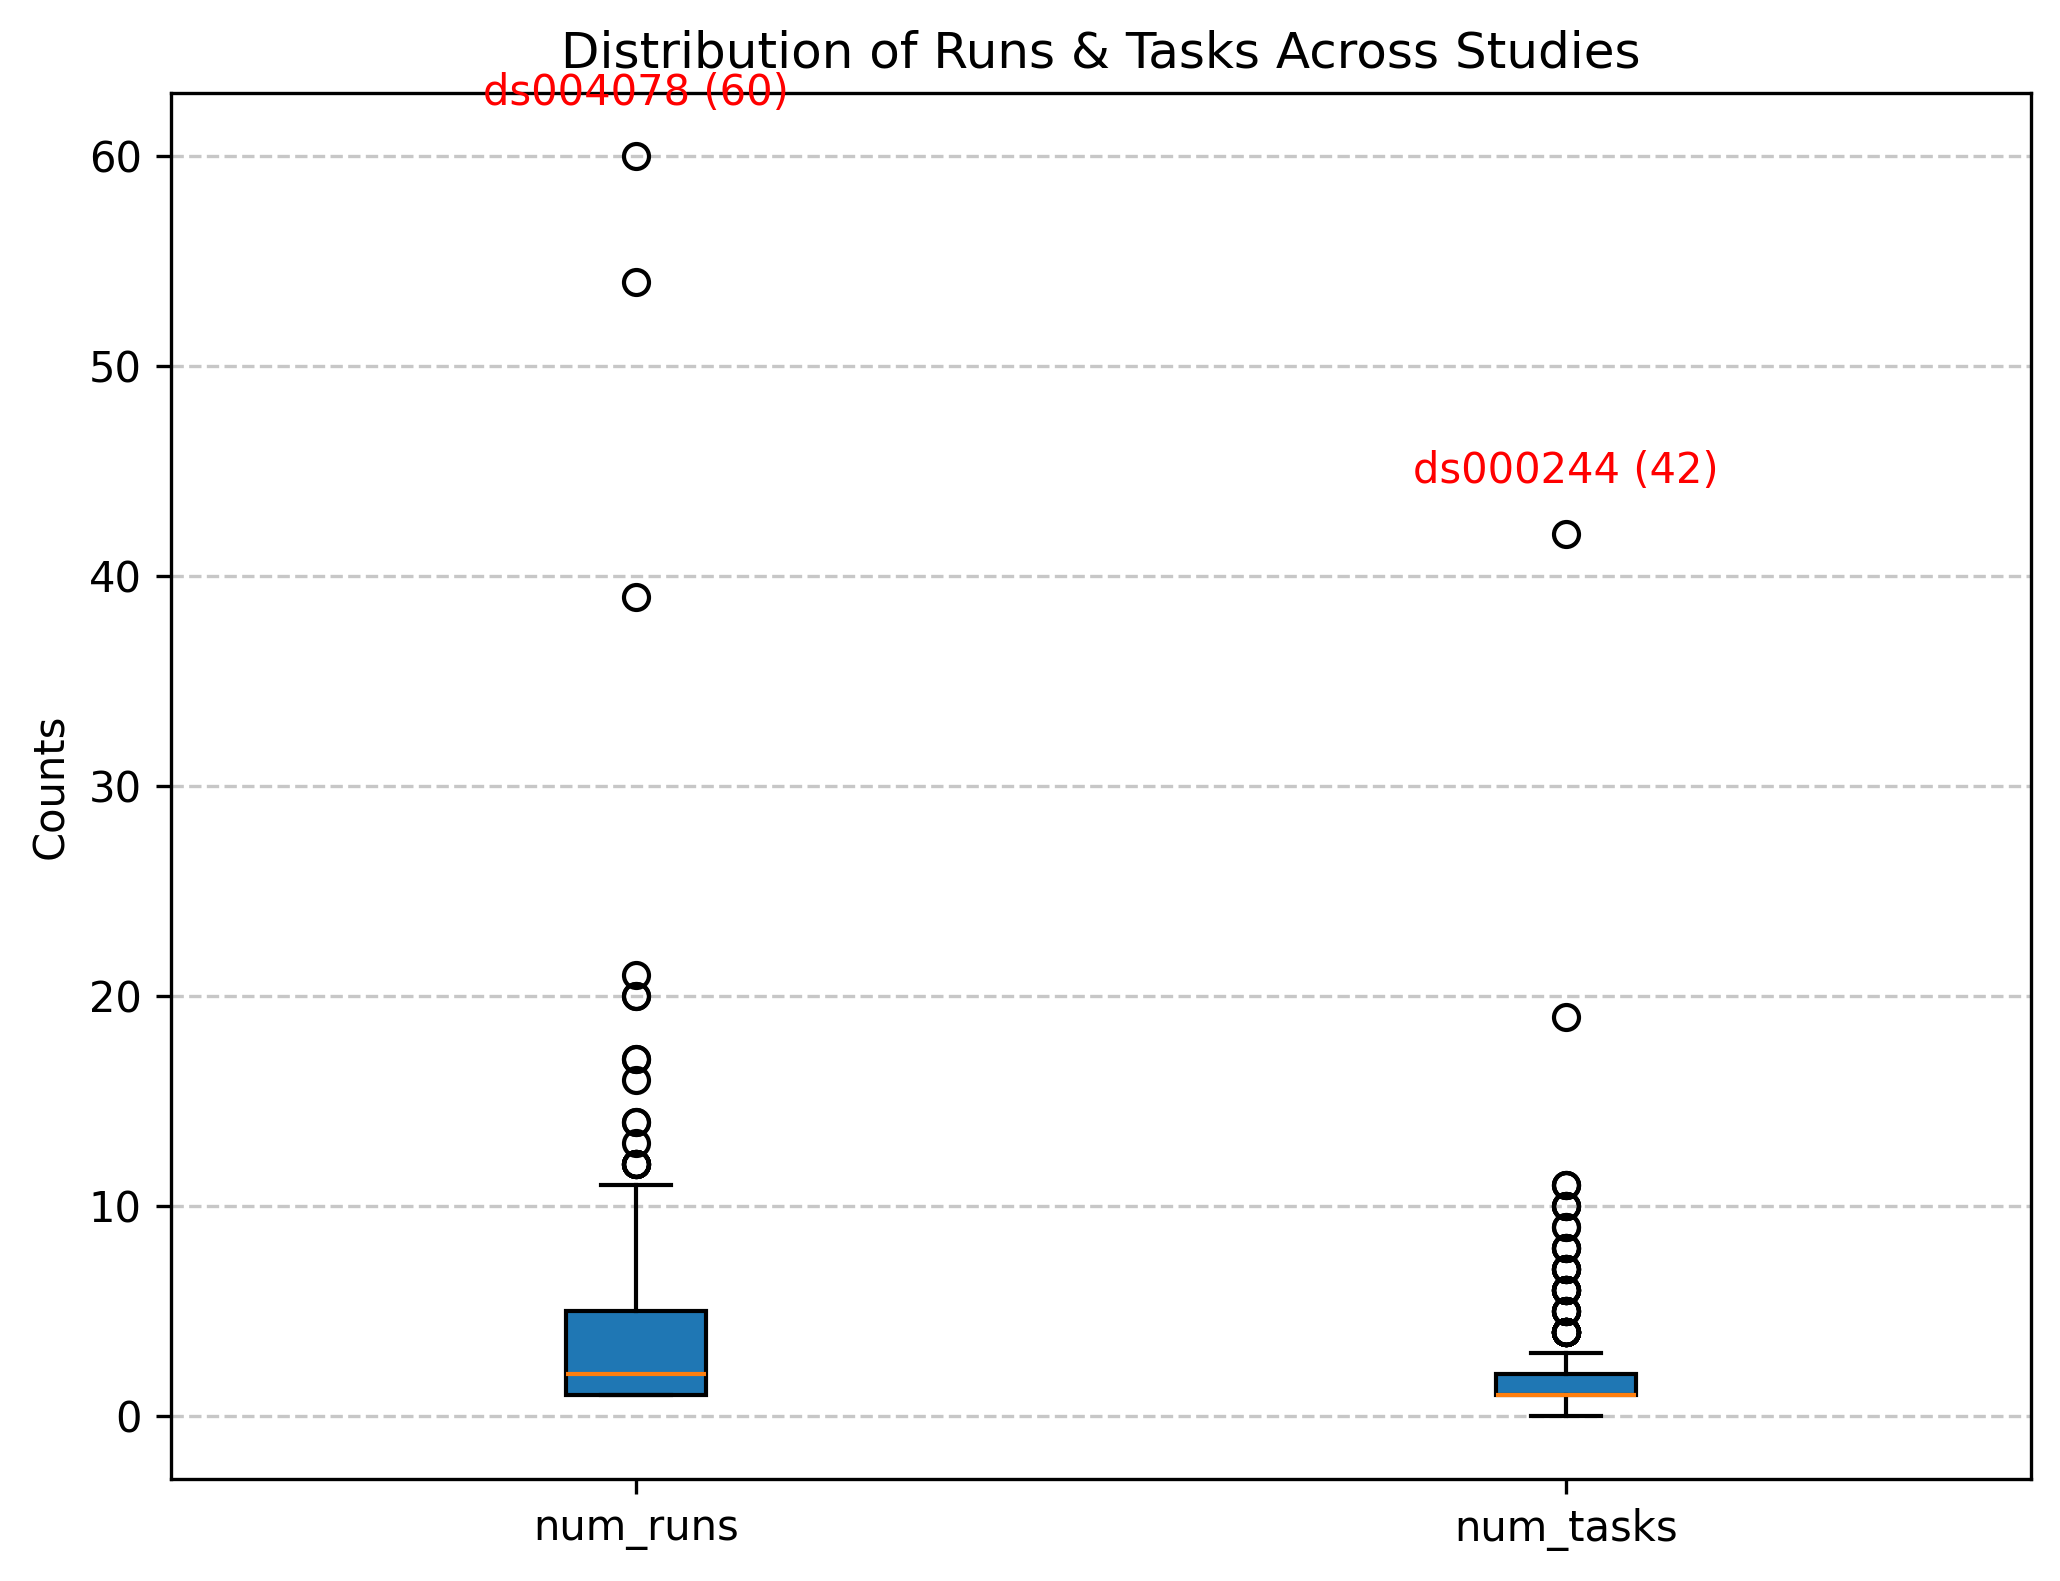
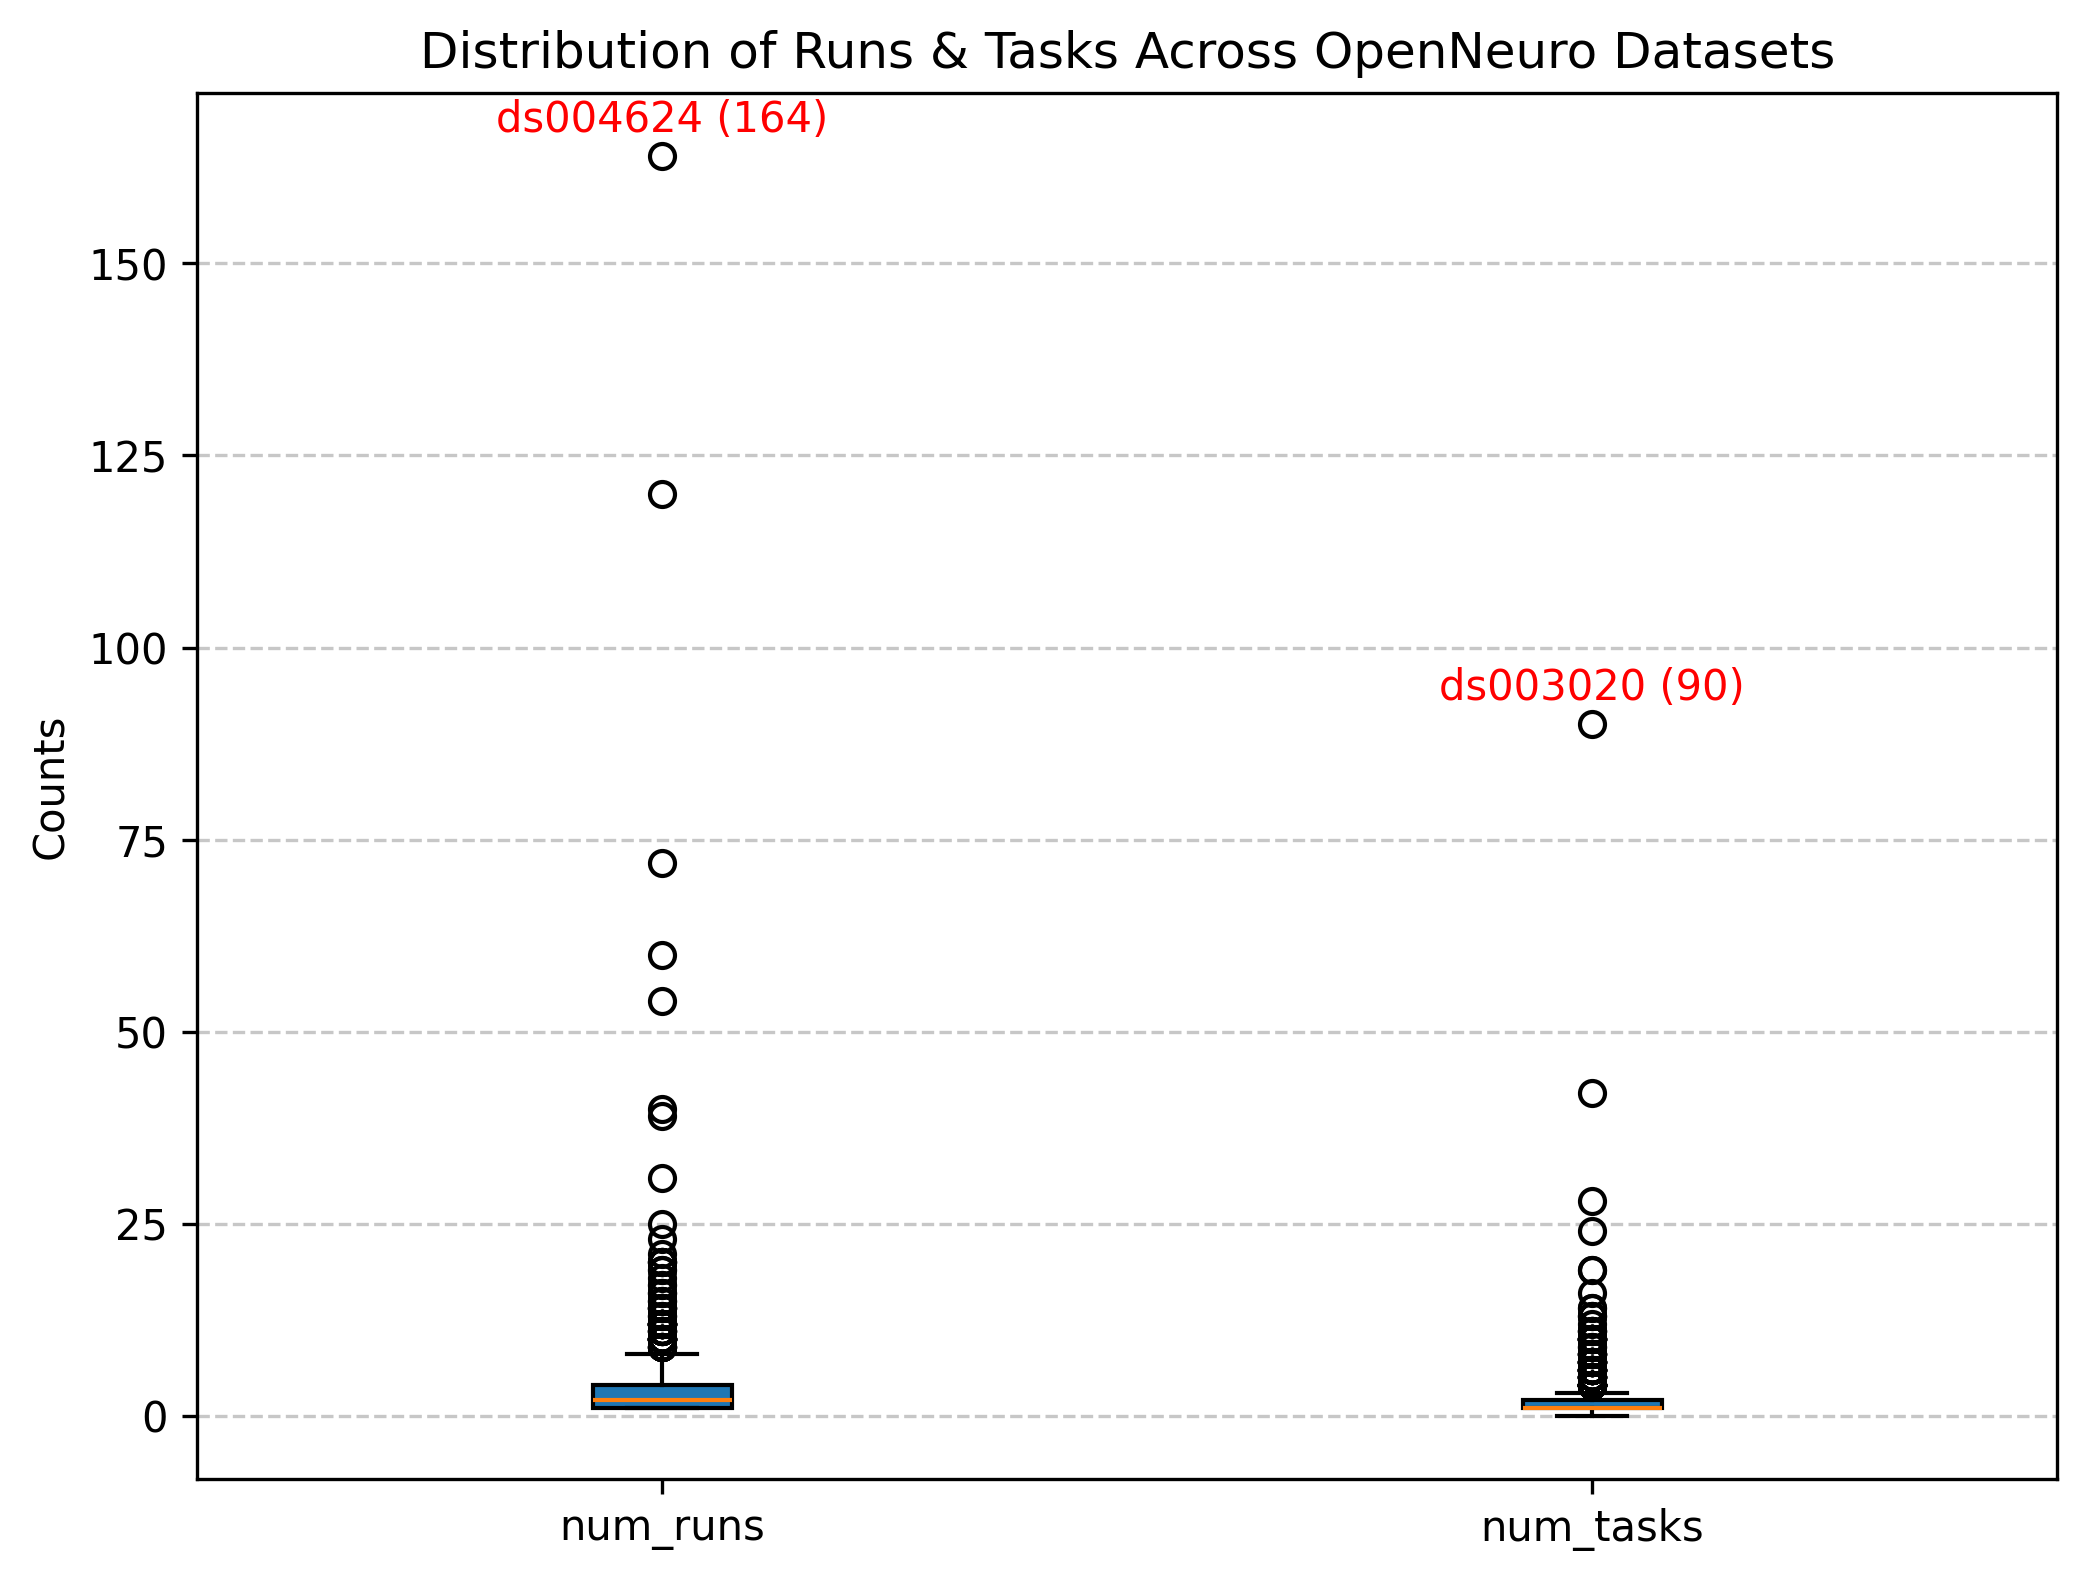
revise figs and clean readme

diff --git a/scripts/get_runlist.py b/scripts/get_runlist.py
@@ -1,5 +1,6 @@
 import concurrent.futures
 import sys
+import os
 import argparse
 import logging
 import ssl
@@ -20,7 +21,7 @@ logging.basicConfig(
 # Parse arguments
 parser = argparse.ArgumentParser(description="Complete Meta Data run for OpenNeuro")
 parser.add_argument("--dir_path", type=str, required=True, help="Directory with sub-directory of OpenNeuro folders")
-parser.add_argument("--out_folder", type=str, required=True, help="Folder to save files, details")
+parser.add_argument("--repo_dir", type=str, required=True, help="Path to repository directory")
 
 
 def fetch_openneuro_metadata():
@@ -58,26 +59,37 @@ def load_completed_datasets(completed_file):
 if __name__ == "__main__":
     parsed_args = parser.parse_args()
     dataset_dir = Path(parsed_args.dir_path)
-    out_folder = Path(parsed_args.out_folder)
-    
+    out_folder = Path(parsed_args.repo_dir)
+    check_out = out_folder / "scripts" / "rerun_details"
+    ran_files = out_folder / "output" / "dataset_output"
+
+
     # Validate inputs
     if not dataset_dir.exists():
         logging.error(f"Dataset directory does not exist: {dataset_dir}")
         sys.exit(1)
     
     # Create output folder if it doesn't exist
-    out_folder.mkdir(parents=True, exist_ok=True)
-
+    check_out.mkdir(parents=True, exist_ok=True)
+    ran_files.mkdir(parents=True, exist_ok=True)
+    
     # Get list of current OpenNeuro data
     logging.info("Fetching OpenNeuro metadata...")
     openneuro_list = fetch_openneuro_metadata()
     logging.info(f"Found {len(openneuro_list)} datasets in OpenNeuro metadata")
 
-    # Load completed datasets
-    completed_file = out_folder / "completed_datasets.tsv"
-    completed_df = load_completed_datasets(completed_file)
+    # get file names Path(ran_files).rglob("*basics_summary.csv").sep("_")[0], study_id is first field
+    # get YYYY-MM-DD file was create
+    # create pd.DataFrame with unqiue study_id and date_created
+    files = Path(ran_files).rglob("*basics_summary.csv")
+    filelist_data = [(f.stem.split("_")[0], datetime.fromtimestamp(os.path.getctime(f)).strftime("%Y-%m-%d")) 
+            for f in files]
+    completed_df = pd.DataFrame(filelist_data, columns=['study_id', 'date_created']).drop_duplicates('study_id')
+
+    #completed_file = out_folder / "completed_datasets.tsv"
+    #completed_df = load_completed_datasets(completed_file)
     
-    logging.info(f"Checking run list versus available OpenNeuro datasets")
+    logging.info(f"Checking ran OpenNeuro datasets versus available OpenNeuro datasets")
     logging.info(f"Dataset directory: {dataset_dir}")
     logging.info(f"Output folder: {out_folder}")
     logging.info(f"Previously completed datasets: {len(completed_df)}")
@@ -87,7 +99,7 @@ if __name__ == "__main__":
     logging.info(f"Missing {len(missing)} datasets to process")
 
     # save list of datasets to run
-    run_dataset_list = out_folder / "datasets_torun.tsv"
+    run_dataset_list = check_out / "datasets_torun.tsv"
     missing["accession_number"].to_csv(run_dataset_list, sep='\t', index=False, header=False)
     logging.info(f"Saved list of datasets to process: {run_dataset_list}")
     

diff --git a/scripts/create_figures.py b/scripts/create_figures.py
@@ -117,6 +117,9 @@ if __name__ == "__main__":
     # 1. File Type Percentage Analysis
     print("Creating file type percentage plot...")
     if all_basics is not None:
+        # num of unique data IDs
+        num_uniq_dataset = len(all_basics["study_id"].unique())
+
         # If 'presence' has 'bids_conflict_error', set 'file' to 'bids_error' and 'presence' to 1
         all_basics.loc[all_basics['presence'] == 'bids_conflict_error', 'file'] = 'bids_error'
         all_basics.loc[all_basics['presence'] == 'bids_conflict_error', 'presence'] = 1
@@ -143,7 +146,7 @@ if __name__ == "__main__":
         plt.bar(percent_type['type'], percent_type['percent'], color=colors)
         plt.xlabel('')
         plt.ylabel('Percentage Exists (%)')
-        plt.title('Percentage of Folders Containing Each File Type\nOpenNeuro Datasets')
+        plt.title(f'Percentage of Folders Containing Each File Type\n {num_uniq_dataset} OpenNeuro Datasets')
         plt.xticks(rotation=45, ha='right')
         plt.ylim(0, 100)
         plt.tight_layout()
@@ -162,7 +165,7 @@ if __name__ == "__main__":
         plt.text(1, max_value, f"{', '.join(max_study)} ({max_value})", 
                 ha="center", va="bottom", fontsize=10, color="red")
         plt.ylabel("Subject Counts")
-        plt.title("Distribution of Subjects Across Studies")
+        plt.title(f"Distribution of Subjects Across OpenNeuro Datasets")
         plt.grid(axis="y", linestyle="--", alpha=0.7)
         save_plot("file_counts-subjects.png")
 
@@ -183,7 +186,7 @@ if __name__ == "__main__":
                     ha="center", va="bottom", fontsize=10, color="red")
         
         plt.ylabel("Counts")
-        plt.title("Distribution of Runs & Tasks Across Studies")
+        plt.title("Distribution of Runs & Tasks Across OpenNeuro Datasets")
         plt.grid(axis="y", linestyle="--", alpha=0.7)
         save_plot("file_counts-runs-tasks.png")
 

diff --git a/scripts/run_metacheck.py b/scripts/run_metacheck.py
@@ -63,8 +63,13 @@ if __name__ == "__main__":
     target_dir = dataset_dir / openneuro_id
 
     if target_dir.exists():
-        shutil.rmtree(target_dir)
-        print(f"{target_dir} has been removed.")
+        try:
+            shutil.rmtree(target_dir)
+            print(f"{target_dir} has been removed.")
+        except FileNotFoundError:
+            print(f"{target_dir} does not exist (or was already removed).")
+        except PermissionError:
+            print(f"No permission to remove {target_dir}.")
     else:
         print(f"{target_dir} does not exist.")
 

diff --git a/README.md b/README.md
@@ -2,21 +2,21 @@
 
 ## Overview
 
-This repository contains metadata extraction scripts for analyzing datasets on OpenNeuro.org. As OpenNeuro continues to grow, this information is essential for understanding the available data.
+This repository contains metadata extraction scripts for analyzing datasets on OpenNeuro.org. As OpenNeuro continues to grow, this information is essential for understanding the structures and values.
 
-![openneuro_growth.png](./figures/openneuro_datasets-growth.png)
+![OpenNeuro Growth](./figures/openneuro_datasets-growth.png)
 
-The scripts analyze cloned BIDS (Brain Imaging Data Structure) datasets, extracting, validating and summarizing key metadata components. While they review basic metadata across ALL datasets, they prioritize checks relevant to MRI/fMRI (e.g. BOLD, events files, etc.). Contributions from MEG/EEG/fNIRS/DWI experts are welcome and encouraged.
+The scripts analyze cloned BIDS (Brain Imaging Data Structure) datasets, extracting, validating and summarizing key metadata components. While they review basic metadata across ALL datasets, they prioritize checks relevant to MRI/fMRI (e.g. BOLD, events files, etc.). Contributions from MEG/EEG/fNIRS/DWI experts are welcome and **highly** encouraged.
 
 ## Structure
 
-Modular design consisting of six main components:
+Modular structure consisting of six main components:
 
 1. **Main Processing Module** (`check_files.py`) - Functions for BIDS dataset analysis and extraction
-2. **Dataset List Manager** (`get_runlist.py`) - Based on [repo by Joe Wexler](https://github.com/jbwexler/openneuro_metadata), checks list of OpenNeuro datasets and determines which are not completed in `./scripts/completed_datasets.tsv`. Prevents rerunning entire analysis by cross-referencing `study_id` and `accession_number`
-3. **Metadata Extraction Script** (`run_metacheck.py`) - Python script that clones, extracts and aggregates information for ALL OpenNeuro datasets within a specified directory
-4. **SLURM Submission** (`check_metadata.sbatch`) - Uses `--array` to specify OpenNeuro dataset IDs and iterates over IDs in `./scripts/datasets_torun.tsv`, removing when successfully finished. Tracks complete and failed outputs. More efficient as `BIDSLayout()` takes longer on some datasets - running separate batches (max 25 at a time) prevents time-intensive datasets from blocking others
-5. **Download/Clone Data** (`download_data.py`) - Code to use datalad clone for missing/updated datasets. Note: Chris recommends `datalad install -r ///openneuro` for full cloning, but can be time consuming
+2. **Dataset List Manager** (`get_runlist.py`) - Compares available OpenNeuro datasets (from [Joe Wexler's metadata repo](https://github.com/jbwexler/openneuro_metadata)) against already processed datasets by checking for existing output files in `./output/dataset_output`. Creates `./scripts/rerun_details/datasets_torun.tsv` containing datasets that need processing
+3. **Metadata Extraction Script** (`run_metacheck.py`) - Python script that clones individual datasets using datalad, extracts metadata, and saves results to separate CSV files per dataset
+4. **SLURM Submission** (`check_metadata.sbatch`) - Uses `--array` to process multiple OpenNeuro datasets in parallel, reading dataset IDs from `./scripts/rerun_details/datasets_torun.tsv'. Tracks completion status and failures with timeout handling (max 25 concurrent jobs to prevent resource contention & max 1:57min run time per job)
+5. **Download/Clone Data** (`download_data.py`) - Code to use datalad clone for missing/updated datasets. Note: Chris recommends `datalad install -r ///openneuro` for full cloning, but but I found this can be less efficient on Sherlock as OpenNeuro grow
 6. **Figure Generation Script** (`create_figures.py`) - Combines all data from `./output/dataset_output` into `combined_*.csv` files and generates metadata visualizations
 
 ## Usage
@@ -38,8 +38,8 @@ bash setup.sh
 ```bash
 # within scripts folder
 uv run python get_runlist.py \
-    --dir_path /path/to/openneuro/datasets \
-    --out_folder "`pwd`/rerun_details" 
+    --dir_path "/path/to/openneuro/datasets" \
+    --repo_dir "/path/to/openneuro_scrub" 
 ```
 
 **Run metadata check:**
@@ -97,17 +97,28 @@ uv run python create_figures.py
 
 - **Growth trend analysis** of OpenNeuro datasets and derivatives
 - **File type percentage** across OpenNeuro datasets
-![file_type_percentage.png](./figures/file_type_percentage.png)
+
+![File Type Percentage](./figures/file_type_percentage.png)
+
 - **Subject/task/run distribution**
-![file_counts-subjects.png](./figures/file_counts-subjects.png)
-![file_counts-runs-tasks.png](./figures/file_counts-runs-tasks.png)
+
+![File Counts - Subjects](./figures/file_counts-subjects.png)
+
+![File Counts - Runs/Tasks](./figures/file_counts-runs-tasks.png)
+
 - **Session distribution**
-![file_counts-sessions-minmax.png](./figures/file_counts-sessions-minmax.png)
+
+![File Counts - Sessions](./figures/file_counts-sessions-minmax.png)
+
 - **Word frequency** analysis of descriptor, participant and events files
-![descriptor-freq_top-20words.png](./figures/descriptor-freq_top-20words.png)
-![participant-freq_top-20words.png](./figures/participant-freq_top-20words.png)
-![participantjson-freq_top-20words.png](./figures/participantjson-freq_top-20words.png)
-![events-freq_top-20words.png](./figures/events-freq_top-20words.png)
+
+![Descriptor Frequency](./figures/descriptor-freq_top-20words.png)
+
+![Participant Frequency](./figures/participant-freq_top-20words.png)
+
+![Participant JSON Frequency](./figures/participantjson-freq_top-20words.png)
+
+![Events Frequency](./figures/events-freq_top-20words.png)
 
 ## Main Functions in `check_files.py`
 
